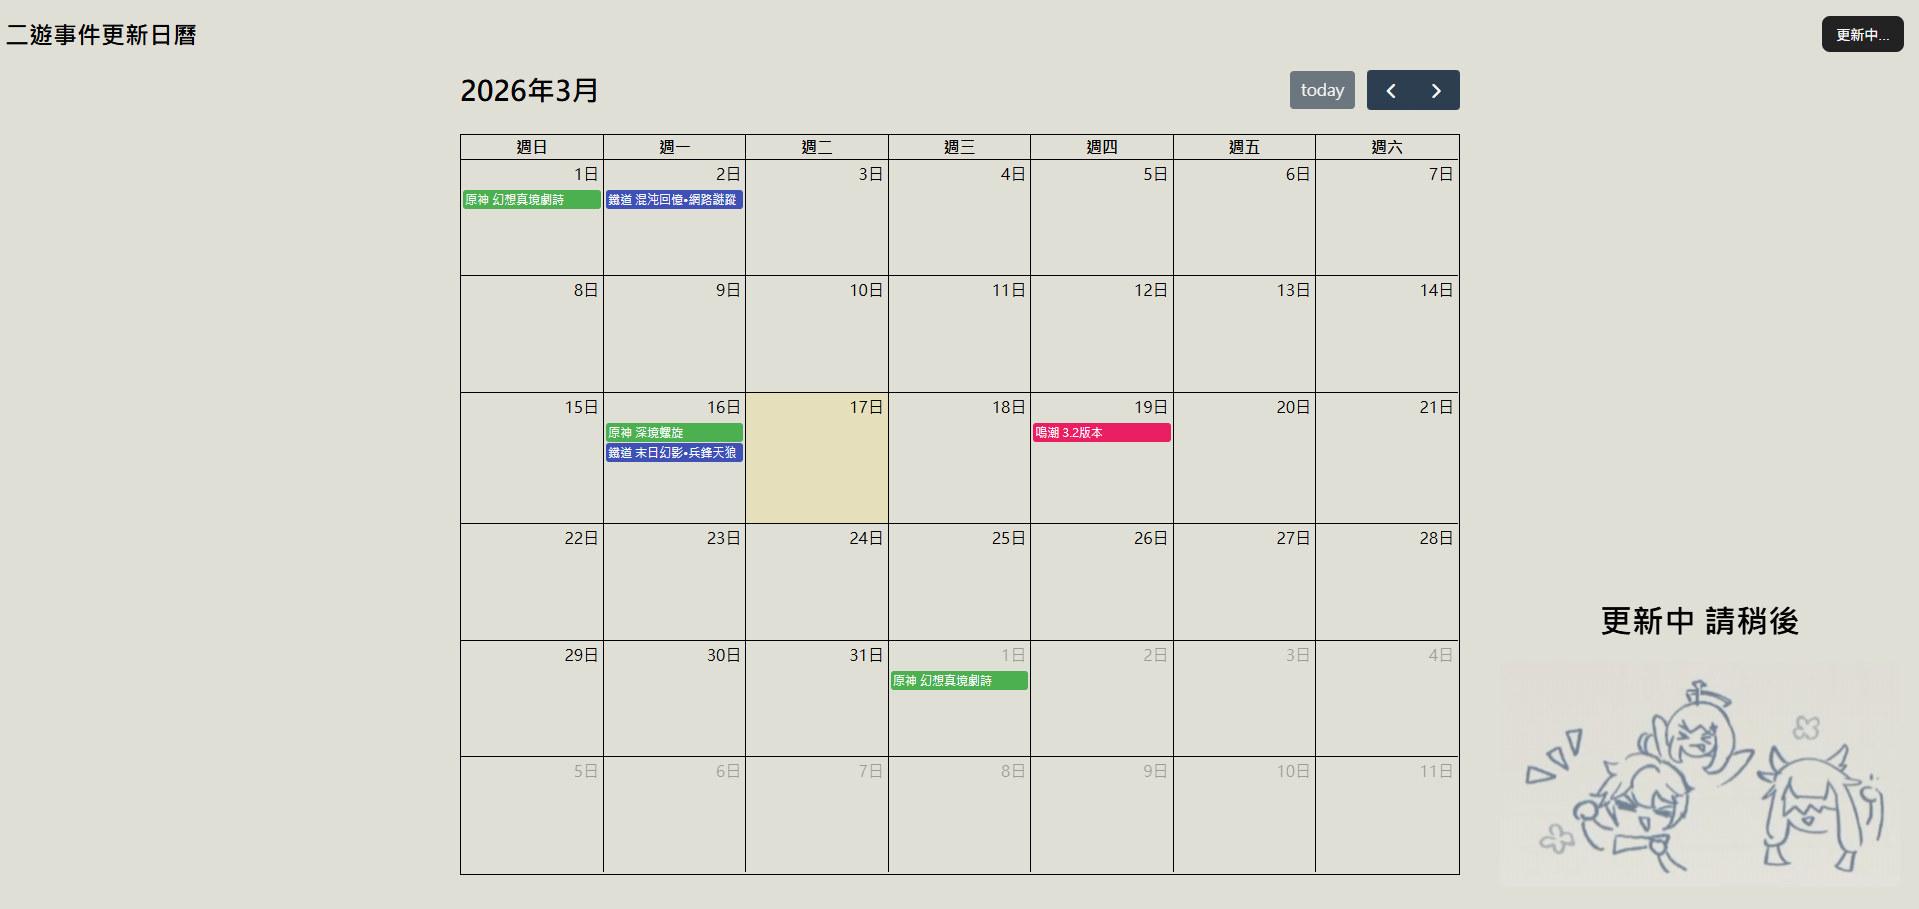
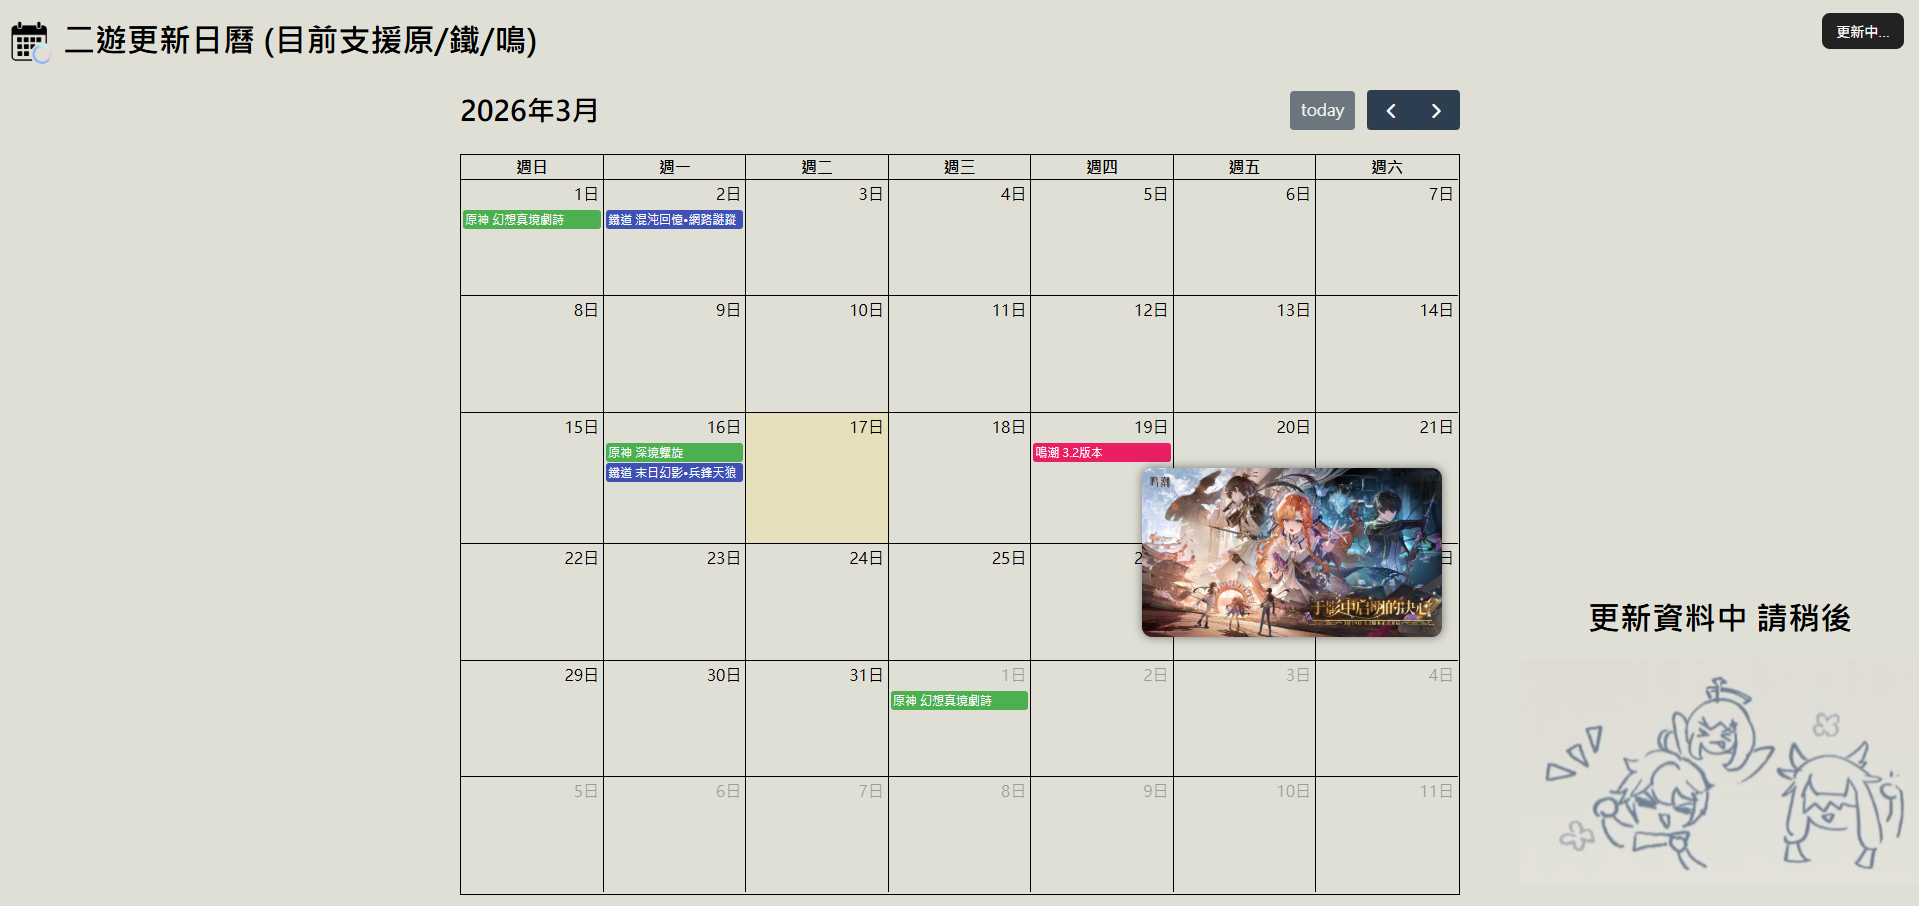
add event img

diff --git a/js/loading.js b/js/loading.js
@@ -13,7 +13,7 @@ document.addEventListener("DOMContentLoaded", () => {
     initialView: "dayGridMonth",
     locale: "zh-tw",
     events: [],
-    eventMouseEnter: function(info) {
+    eventMouseEnter: function (info) {
       const img = info.event.extendedProps.image;
       if (!img) return;
 
@@ -39,7 +39,7 @@ document.addEventListener("DOMContentLoaded", () => {
       document.addEventListener("mousemove", move);
       info.el._moveHandler = move;
     },
-    eventMouseLeave: function(info) {
+    eventMouseLeave: function (info) {
       const tooltip = document.getElementById("imgTooltip");
       if (tooltip) tooltip.remove();
       if (info.el._moveHandler) {
@@ -70,10 +70,32 @@ document.addEventListener("DOMContentLoaded", () => {
     calendar.removeAllEvents();
     events.forEach((e) => {
       calendar.addEvent({
-        title: `${e.game} ${e.title}`,
         start: e.dates,
         color: gameColors[e.game] || "#2196F3",
-        extendedProps: { image: e.image }, // 存版本圖片
+        extendedProps: { image: e.image },
+        // 自訂事件內容
+        eventContent: function (arg) {
+          const container = document.createElement("div");
+          container.style.display = "flex";
+          container.style.alignItems = "center";
+          container.style.gap = "4px"; // 圖片跟文字間距
+
+          // 加遊戲小圖
+          const img = document.createElement("img");
+          img.src = `./assets/${e.game}.png`;
+          img.style.width = "16px";
+          img.style.height = "16px";
+          img.style.borderRadius = "2px";
+
+          // 加文字
+          const text = document.createElement("span");
+          text.textContent = e.title;
+          text.style.fontSize = "0.75rem";
+
+          container.appendChild(img);
+          container.appendChild(text);
+          return { domNodes: [container] };
+        },
       });
     });
 
@@ -88,10 +110,32 @@ document.addEventListener("DOMContentLoaded", () => {
     const events = JSON.parse(saved);
     events.forEach((e) => {
       calendar.addEvent({
-        title: `${e.game} ${e.title}`,
         start: e.dates,
         color: gameColors[e.game] || "#2196F3",
         extendedProps: { image: e.image },
+        // 自訂事件內容
+        eventContent: function (arg) {
+          const container = document.createElement("div");
+          container.style.display = "flex";
+          container.style.alignItems = "center";
+          container.style.gap = "4px"; // 圖片跟文字間距
+
+          // 加遊戲小圖
+          const img = document.createElement("img");
+          img.src = `/assets/${e.game}.png`;
+          img.style.width = "16px";
+          img.style.height = "16px";
+          img.style.borderRadius = "2px";
+
+          // 加文字
+          const text = document.createElement("span");
+          text.textContent = e.title;
+          text.style.fontSize = "0.75rem";
+
+          container.appendChild(img);
+          container.appendChild(text);
+          return { domNodes: [container] };
+        },
       });
     });
   }
